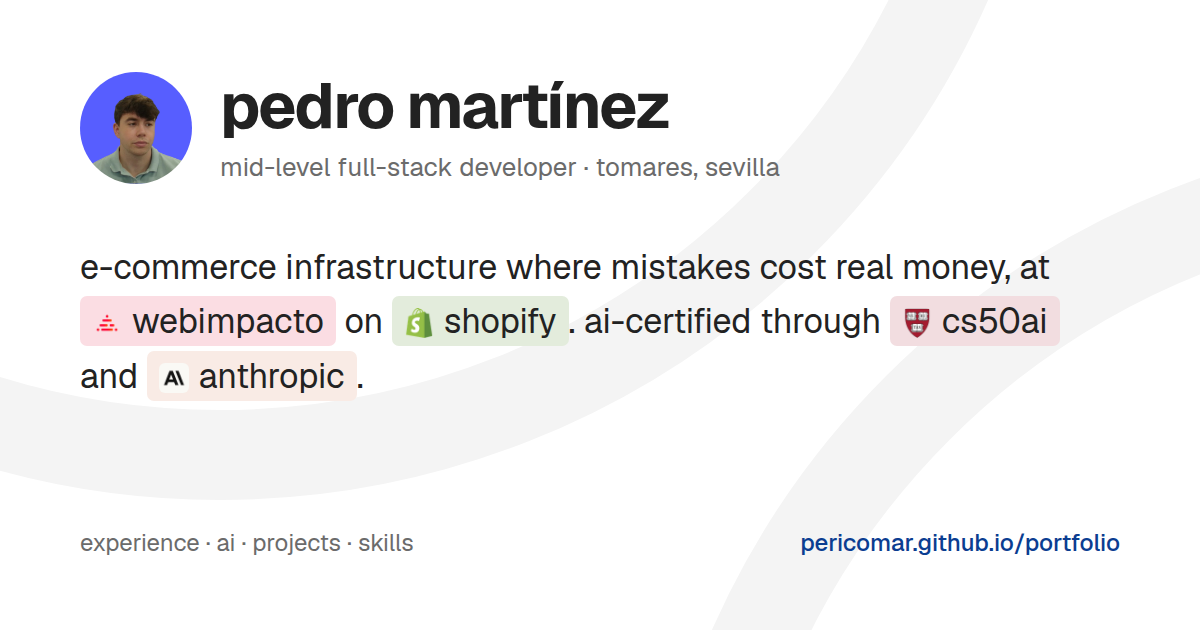
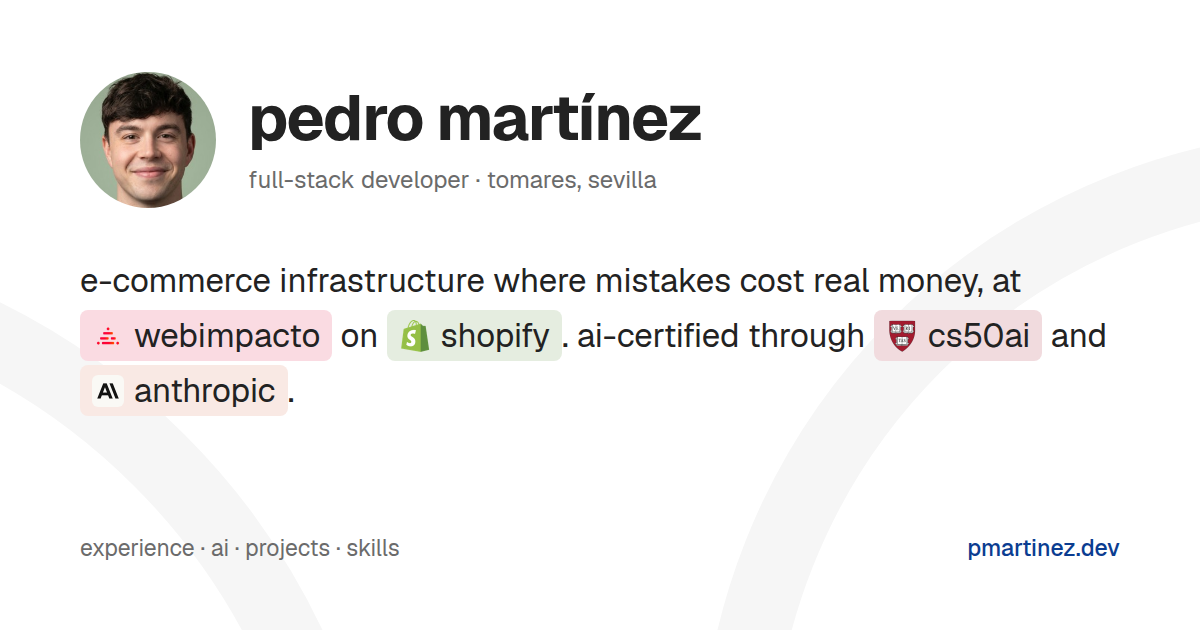
Refresh headline, Danza App traction and the preview image
- Headline and meta description now read "Full-Stack Developer".
- Danza App: 400+ users, 400+ companies, 250+ newsletter subscribers and
  70+ new users a month.
- New Open Graph image with the current photo cropped to the face, the new
  headline and pmartinez.dev; drop the old, unused photo.

diff --git a/src/data/content.ts b/src/data/content.ts
@@ -25,7 +25,7 @@ const l = (en: string, es: string): L => ({ en, es });
 export const profile = {
   name: 'Pedro Martínez González',
   shortName: 'Pedro Martínez',
-  headline: l('Mid-Level Full-Stack Developer', 'Desarrollador Full-Stack Mid-Level'),
+  headline: l('Full-Stack Developer', 'Desarrollador Full-Stack'),
   location: l('Tomares, Seville, Spain', 'Tomares, Sevilla, España'),
   email: 'pedromartinezgon0511@gmail.com',
   linkedin: 'https://www.linkedin.com/in/pedromargonz/',
@@ -165,8 +165,8 @@ export const intro = [
     'Construyo infraestructura e-commerce donde los errores cuestan dinero real. En {webimpacto} trabajo con tiendas {shopify} de suscripción con decenas de miles de contratos activos: me aseguro de que los cobros recurrentes aguanten ese volumen, los adapto a las necesidades de cada cliente y diseño sistemas que sigan siendo mantenibles a medida que crecen. He participado en dos migraciones completas de suscripciones. Antes pasé dos años y medio en {kong}, dirigiendo la parte técnica de los proyectos más complejos.',
   ),
   l(
-    'On the side I build {danza}, a cross-platform app for professional dancers with LLM-powered review summaries, and I’m experimenting heavily with AI-assisted development workflows. I’m finishing Computer Engineering at {uoc} and I’m certified in AI through {cs50ai} and {anthropic}.',
-    'Por mi cuenta construyo {danza}, una app multiplataforma para bailarines profesionales con resúmenes de reseñas generados por LLM, y experimento mucho con flujos de desarrollo asistidos por IA. Estoy terminando Ingeniería Informática en la {uoc} y tengo certificaciones de IA de {cs50ai} y {anthropic}.',
+    'On the side I build {danza}, a cross-platform app for professional dancers with 400+ users and LLM-powered review summaries, and I’m experimenting heavily with AI-assisted development workflows. I’m finishing Computer Engineering at {uoc} and I’m certified in AI through {cs50ai} and {anthropic}.',
+    'Por mi cuenta construyo {danza}, una app multiplataforma para bailarines profesionales con más de 400 usuarios y resúmenes de reseñas generados por LLM, y experimento mucho con flujos de desarrollo asistidos por IA. Estoy terminando Ingeniería Informática en la {uoc} y tengo certificaciones de IA de {cs50ai} y {anthropic}.',
   ),
   l(
     'I care about correctness in systems that touch money, and about leaving codebases better documented than I found them.',
@@ -355,10 +355,10 @@ export const projects: Project[] = [
   {
     org: 'danza',
     title: l('Danza App', 'Danza App'),
-    sub: l('freelance · iOS · Android · web', 'freelance · iOS · Android · web'),
+    sub: l('freelance · 400+ users · iOS · Android · web', 'freelance · +400 usuarios · iOS · Android · web'),
     body: l(
-      'Cross-platform app where professional dancers review dance companies and track auditions worldwide. Built end-to-end with the product owner: data model, backend, AI layer and app-store release. Supabase / Postgres secured with Row-Level Security and role-based moderation; an audition engine that turns messy deadlines (“ASAP”, “always open”, several dates) into a clear traffic-light status. From a 15-hour MVP to native iOS and Android builds, plus newsletter and ads.',
-      'App multiplataforma donde bailarines profesionales reseñan compañías de danza y siguen audiciones de todo el mundo. Construida de punta a punta con el responsable de producto: modelo de datos, backend, capa de IA y publicación en las stores. Supabase / Postgres protegido con Row-Level Security y moderación por roles; un motor de audiciones que convierte plazos caóticos («ASAP», «siempre abierta», varias fechas) en un semáforo de estado claro. De un MVP de 15 horas a apps nativas para iOS y Android, con newsletter y anuncios.',
+      'Cross-platform app where professional dancers review dance companies and track auditions worldwide. Built end-to-end with the product owner: data model, backend, AI layer and app-store release. Supabase / Postgres secured with Row-Level Security and role-based moderation; an audition engine that turns messy deadlines (“ASAP”, “always open”, several dates) into a clear traffic-light status. From a 15-hour MVP to native iOS and Android builds with ads and a newsletter. It now lists 400+ ballet companies, has 250+ newsletter subscribers and gains 70+ new users every month.',
+      'App multiplataforma donde bailarines profesionales reseñan compañías de danza y siguen audiciones de todo el mundo. Construida de punta a punta con el responsable de producto: modelo de datos, backend, capa de IA y publicación en las stores. Supabase / Postgres protegido con Row-Level Security y moderación por roles; un motor de audiciones que convierte plazos caóticos («ASAP», «siempre abierta», varias fechas) en un semáforo de estado claro. De un MVP de 15 horas a apps nativas para iOS y Android, con anuncios y newsletter. Hoy reúne más de 400 compañías de ballet y más de 250 suscriptores a la newsletter, y suma más de 70 usuarios nuevos cada mes.',
     ),
     start: '2025',
     stack: ['React Native', 'Expo', 'Node.js', 'Supabase', 'PostgreSQL', 'OpenAI API'],
@@ -526,8 +526,8 @@ export const ui = {
   meta: {
     title: l('Pedro Martínez — Full-Stack Developer', 'Pedro Martínez — Desarrollador Full-Stack'),
     description: l(
-      'Mid-level full-stack developer in Seville building Shopify subscription and payment infrastructure with Laravel, Angular, Node.js and GraphQL, plus LLM-powered features in Danza App. CS50AI and Claude Code certified.',
-      'Desarrollador full-stack mid-level en Sevilla: infraestructura de suscripciones y pagos en Shopify con Laravel, Angular, Node.js y GraphQL, y funcionalidades con LLM en Danza App. Certificado en CS50AI y Claude Code.',
+      'Full-stack developer in Seville building Shopify subscription and payment infrastructure with Laravel, Angular, Node.js and GraphQL, plus LLM-powered features in Danza App. CS50AI and Claude Code certified.',
+      'Desarrollador full-stack en Sevilla: infraestructura de suscripciones y pagos en Shopify con Laravel, Angular, Node.js y GraphQL, y funcionalidades con LLM en Danza App. Certificado en CS50AI y Claude Code.',
     ),
   },
   nav: {
